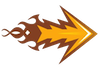
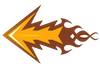
test angle of arrow

diff --git a/Air_Hockey/Classes/GameLayer.cpp b/Air_Hockey/Classes/GameLayer.cpp
@@ -7,6 +7,7 @@ using namespace CocosDenshion;
 #define RED 1
 #define NORMAL_BOLD 10
 #define MAX_BOLD 200
+#define MAX_SCALE 20
 
 CCScene* GameLayer::scene()
 {
@@ -103,9 +104,6 @@ bool GameLayer::init()
     // arrow
     _arrow1 = GameSprite::gameSpriteWithFile("arrow_1.png");
     _arrow1->setPosition(ccp(_screenSize.width * 0.5, _screenSize.height * 0.5));
-    _arrow1->setScaleX(0.5);
-    _arrow1->setScaleY(2);
-    _arrow1->setRotation(-90);
     this->addChild(_arrow1);
     
     
@@ -135,6 +133,28 @@ void GameLayer::draw() {
         drawLine(_originalPoint1, _player1->getPosition(), RED, blod_value_1);
         drawLine(_originalPoint2, _player2->getPosition(), RED, blod_value_2);
     }
+}
+
+void GameLayer::transformArrow(CCPoint start, CCPoint end) {
+    // adjust scale
+    float distance = ccpDistance(start, end);
+    CCSize size = _arrow1->boundingBox().size;
+    float scale = 0;
+    
+    if (distance > 0) {
+        scale = distance / _screenSize.height / 2 * MAX_SCALE;
+    }
+    
+    _arrow1->setScaleX(scale);
+    
+    // adjust angle
+    float diffx = end.x - start.x;
+    float diffy = end.y - start.y;
+    
+    float radian = -atan2(diffy, diffx);
+    float angle = CC_RADIANS_TO_DEGREES(radian);
+    
+    _arrow1->setRotation(angle);
 }
 
 void GameLayer::drawLine(CCPoint start, CCPoint end, int color, int bold) {
@@ -256,6 +276,9 @@ void GameLayer::update(float dt) {
         _player1->setPosition(_player1->getNextPosition());
         _player2->setPosition(_player2->getNextPosition());    
         _ball->setPosition(_ball->getNextPosition());
+        
+        // transform arrow
+        this->transformArrow(_originalPoint1, _player1->getPosition());
     }
 }
 
